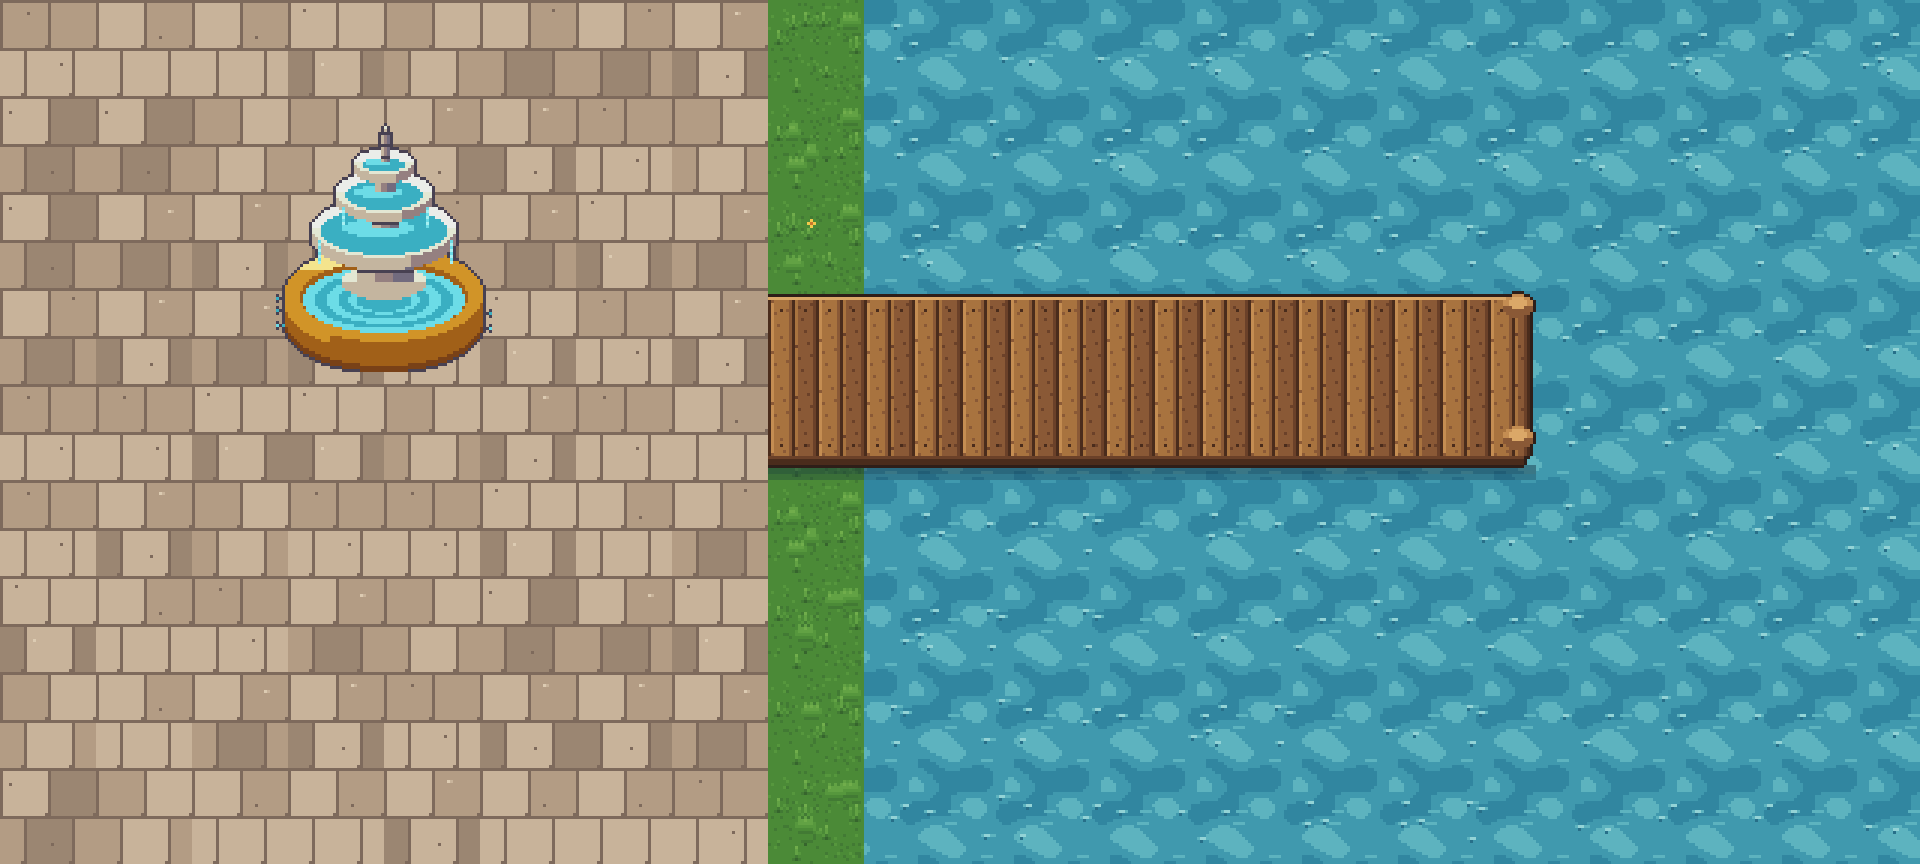
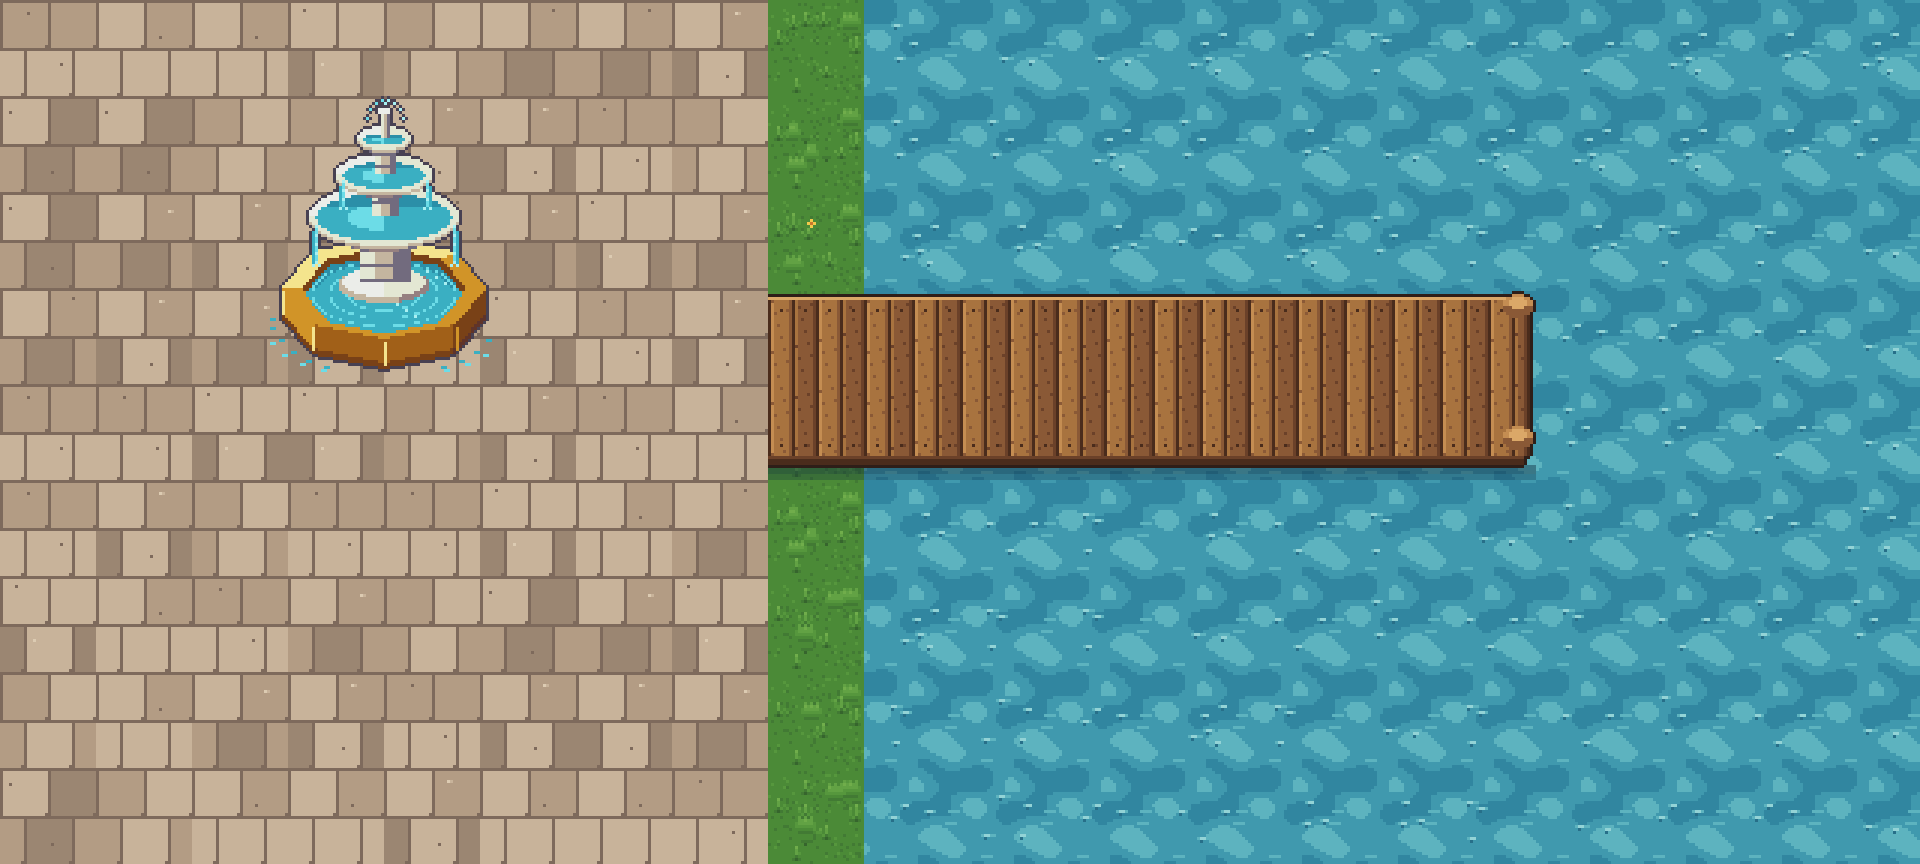
Fountain: octagonal gold basin, tapered bowls, layered water and spills
Claude-Session: https://claude.ai/code/session_01UfpJh2yGrDMaNfv5mQuco1

Changed region(s): [[0.125, 0.0938, 0.2812, 0.4375]]

diff --git a/tools/pixel-art/fountain_pier.py b/tools/pixel-art/fountain_pier.py
@@ -1,6 +1,6 @@
 """Çeşme ve iskele (kodla piksel piksel, 3/4 açı). docs/tasarim/15-gorsel-stil.md
 Çalıştır: python3 tools/pixel-art/fountain_pier.py -> client/Assets/Art/Custom/Plaza/
-Çeşme: fountain.png (72x100, pivot altta orta). İskele: pier_mid.png, pier_end.png (32x64 parçalar, 2 tile geniş).
+Çeşme: fountain.png (76x104, pivot altta orta). İskele: pier_mid.png, pier_end.png (32x64 parçalar, 2 tile geniş).
 """
 import math, os, random
 from PIL import Image
@@ -43,54 +43,117 @@ WHITE = [hx(c) for c in ('#484152', '#726b7e', '#958080', '#c4b59f', '#e3e7d3', 
 AQUA = [hx(c) for c in ('#2b8fa8', '#3aafc2', '#6cdce7', '#a8f0f2')]
 
 def fountain():
-    """Üç katlı çeşme: altın kenarlı havuz, gri ayak, beyaz kaseler, turkuaz su. Kendi çizimimiz (LPC'nin 'Fountain A' kompozisyonunu örnek alır)."""
-    W, H = 72, 100; c = Canvas(W, H); cx = 36
-    # dış halkalar (suyun havuzdan taşan dalgası)
-    for ang in range(0, 360, 7):
-        for rr, ch in ((37, 1), (40, 2)):
-            x = int(cx + rr * math.cos(math.radians(ang))); y = int(76 + (rr * .5) * math.sin(math.radians(ang)))
-            if math.sin(math.radians(ang)) > -0.1 and (ang // 7) % 2 == 0: c.put(x, y, AQUA[ch])
-    # havuz: altın duvar + üst kenar + turkuaz su
-    cy, rx, ry, wall = 74, 33, 16, 10
+    """Üç katlı çeşme, sekizgen altın havuz. Kendi çizimimiz; LPC 'Fountain A' kompozisyonunu örnek alır.
+    Işık sol üstten: sol yüzler açık, sağ yüzler koyu. Arkadan öne çizilir."""
+    W, H = 76, 104; c = Canvas(W, H); cx = 38
+    cy, rx, ry, wall = 76, 34, 17, 10           # havuz üst kenarının merkezi ve yarıçapları
+
+    # --- sekizgen yardımcıları (köşeler: ön, arka, sağ, sol ve çaprazlar) ---
+    def octa(scale, dy=0):
+        return [(cx + rx * scale * math.cos(math.radians(a)), cy + dy + ry * scale * math.sin(math.radians(a))) for a in range(0, 360, 45)]
+    def inside(px, py, poly):
+        n = len(poly); sgn = 0
+        for i in range(n):
+            x1, y1 = poly[i]; x2, y2 = poly[(i + 1) % n]
+            cr = (x2 - x1) * (py - y1) - (y2 - y1) * (px - x1)
+            if cr != 0:
+                if sgn == 0: sgn = 1 if cr > 0 else -1
+                elif (cr > 0) != (sgn > 0): return False
+        return True
+    def fill(poly, fn):
+        xs = [p[0] for p in poly]; ys = [p[1] for p in poly]
+        for y in range(int(min(ys)) - 1, int(max(ys)) + 2):
+            for x in range(int(min(xs)) - 1, int(max(xs)) + 2):
+                if inside(x + .5, y + .5, poly): c.put(x, y, fn(x, y))
+    def face(x, y, dy=0):
+        """Pikselin hangi duvar yüzüne düştüğü: açıya göre 0..7 (0 = sağ, 2 = ön, 4 = sol)."""
+        a = math.degrees(math.atan2((y + .5 - cy - dy) / ry, (x + .5 - cx) / rx)) % 360
+        return int(a // 45)
+
+    # --- havuz dış duvarı: yüz yüz gölgeli, ön köşelerde parlak kenar ---
+    WALL_SHADE = {0: GOLD[1], 1: GOLD[2], 2: GOLD[2], 3: GOLD[3], 4: GOLD[3], 5: GOLD[3], 6: GOLD[2], 7: GOLD[1]}
     for off in range(wall, 0, -1):
-        c.ellipse(cx, cy + off, rx, ry, lambda x, y, off=off: GOLD[1] if off > wall - 2 else GOLD[2] if (x - cx) > -rx * .55 else GOLD[3] if off < 4 else GOLD[2])
-    c.ellipse(cx, cy, rx, ry, lambda x, y: GOLD[4] if y < cy - ry * .55 and x < cx else GOLD[3])
-    c.ellipse(cx, cy + 1, rx - 5, ry - 4, lambda x, y: GOLD[2])                        # iç duvar
+        def wfn(x, y, off=off):
+            col = WALL_SHADE[face(x, y, off)]
+            if off >= wall - 1: col = GOLD[0] if col == GOLD[1] else GOLD[1]      # alt kenar gölgesi
+            return col
+        fill(octa(1, off), wfn)
+    for a in (45, 90, 135, 180):                                                     # ön köşe kenarları
+        x = int(round(cx + rx * math.cos(math.radians(a)))); y0 = int(round(cy + ry * math.sin(math.radians(a))))
+        for k in range(1, wall - 1): c.put(x, y0 + k, GOLD[4] if a >= 90 else GOLD[3])
+
+    # --- üst kenar (taç): dış sekizgen açık, iç sekizgen içte ---
+    fill(octa(1), lambda x, y: GOLD[4] if (face(x, y) in (4, 5, 6)) else GOLD[3])
+    fill(octa(0.80), lambda x, y: GOLD[1])                                           # iç duvar (arka tarafı görünür)
+    # --- havuz suyu ---
     def pool(x, y):
-        d = math.hypot((x + .5 - cx) / (rx - 6), (y + .5 - (cy + 2)) / (ry - 5))
-        if (int(d * 7) % 2 == 0 and d > .35): return AQUA[2]
-        return AQUA[1]
-    c.ellipse(cx, cy + 2, rx - 6, ry - 5, pool)
-    # ayak ve taban
-    def tier(tcx, tcy, trx, try_, wallh):
-        for off in range(wallh, 0, -1):
-            c.ellipse(tcx, tcy + off, trx, try_, lambda x, y, off=off: WHITE[2] if (x - tcx) > trx * .35 else WHITE[3])
-        c.ellipse(tcx, tcy, trx, try_, lambda x, y: WHITE[5] if y < tcy else WHITE[4])
-        c.ellipse(tcx, tcy + 1, trx - 3, try_ - 2, lambda x, y: AQUA[1])
-        c.ellipse(tcx - 2, tcy, max(2, trx // 2), max(1, try_ // 3), lambda x, y: AQUA[2])
-    def column(tcx, y0, y1, w):
+        d = math.hypot((x + .5 - cx) / (rx * .78), (y + .5 - (cy + 2)) / (ry * .70))
+        col = AQUA[1]
+        if d > .86 and y < cy: col = AQUA[0]                                        # arka iç kenarın gölgesi
+        ring = d * 4.5
+        if .4 < d < .95 and (ring - int(ring)) < .14: col = AQUA[2]                # dalga halkaları
+        if (x * 13 + y * 7) % 53 == 0 and d < .85: col = AQUA[3]                     # parıltı
+        return col
+    fill(octa(0.78, 2), pool)
+
+    # --- yardımcılar: kase (kesik koni) ve sütun ---
+    def bowl(tcx, tcy, trx, try_, depth):
+        for k in range(depth, 0, -1):                                               # alt yüz: aşağı doğru daralır
+            f = 1 - 0.45 * k / depth
+            c.ellipse(tcx, tcy + k, trx * f, try_ * f, lambda x, y, k=k: WHITE[1] if (x - tcx) > trx * f * .25 or k > depth - 2 else WHITE[2])
+        c.ellipse(tcx, tcy + 1, trx, try_, lambda x, y: WHITE[3])                   # dudak (ön kalınlık)
+        c.ellipse(tcx, tcy, trx, try_, lambda x, y: WHITE[5] if (x - tcx) < 0 and y < tcy else WHITE[4])
+        def w(x, y):
+            d = math.hypot((x + .5 - tcx) / (trx - 2.5), (y + .5 - tcy - .5) / (try_ - 2))
+            if y < tcy - (try_ - 2) * .45: return AQUA[0]
+            if d < .55 and x < tcx: return AQUA[2]
+            return AQUA[1]
+        c.ellipse(tcx, tcy + .5, trx - 2.5, try_ - 2, w)
+    def column(tcx, y0, y1, w, rings=True):
         for y in range(y0, y1):
             for x in range(tcx - w, tcx + w + 1):
-                t = (x - tcx) / w; c.put(x, y, WHITE[1] if t > .3 else WHITE[3] if t < -.4 else WHITE[2])
-            if (y - y0) % 4 == 0:
-                for x in range(tcx - w, tcx + w + 1): c.put(x, y, WHITE[0])
-    c.ellipse(cx, cy - 4, 14, 6, lambda x, y: WHITE[4] if y < cy - 4 else WHITE[3])        # taban halkası
-    column(cx, cy - 20, cy - 4, 9)
-    tier(cx, cy - 22, 24, 10, 4)                                                              # 1. kase
-    column(cx, cy - 32, cy - 22, 4)
-    tier(cx, cy - 34, 16, 7, 3)                                                               # 2. kase
-    column(cx, cy - 42, cy - 34, 3)
-    tier(cx, cy - 44, 10, 4, 3)                                                               # 3. kase
-    column(cx, cy - 54, cy - 44, 1)
-    c.put(cx, cy - 56, WHITE[4]); c.put(cx, cy - 55, WHITE[3])
-    # kaselerden süzülen su
-    for (xx, y0, n) in ((cx - 22, cy - 18, 8), (cx + 22, cy - 18, 8), (cx - 14, cy - 29, 7), (cx + 14, cy - 29, 7)):
-        for k in range(n): c.put(xx, y0 + k, AQUA[3] if k % 2 else AQUA[2])
+                t = (x - tcx) / max(1, w)
+                c.put(x, y, WHITE[4] if t < -.45 else WHITE[1] if t > .35 else WHITE[3])
+            if rings and (y - y0) % 5 == 2:
+                for x in range(tcx - w, tcx + w + 1): c.put(x, y, WHITE[1])
+    def curtain(x, y0, n):
+        for k in range(n):
+            c.put(x, y0 + k, AQUA[3] if k % 3 == 0 else AQUA[2])
+            if k > 1: c.put(x + (1 if x > cx else -1), y0 + k, AQUA[1])
+        c.put(x - 1, y0 + n, AQUA[3]); c.put(x + 1, y0 + n, AQUA[3])               # sıçrama
+
+    # --- ayak (havuzun içinden yükselir) ---
+    c.ellipse(cx, cy - 1, 15, 6, lambda x, y: WHITE[2] if x > cx + 4 else WHITE[3])
+    c.ellipse(cx, cy - 2, 14, 5, lambda x, y: WHITE[5] if x < cx else WHITE[4])
+    column(cx, cy - 20, cy - 2, 8)
+    c.ellipse(cx, cy - 20, 9, 3, lambda x, y: WHITE[4])
+    # --- 1. kase ---
+    bowl(cx, cy - 24, 25, 10, 7)
+    curtain(cx - 23, cy - 21, 13); curtain(cx + 23, cy - 21, 13)
+    # --- 2. kase ---
+    column(cx, cy - 36, cy - 24, 4)
+    bowl(cx, cy - 38, 16, 6.5, 5)
+    curtain(cx - 14, cy - 36, 9); curtain(cx + 14, cy - 36, 9)
+    # --- 3. kase ---
+    column(cx, cy - 48, cy - 38, 3)
+    bowl(cx, cy - 50, 9, 4, 4)
+    # --- uç ve fışkıran su ---
+    column(cx, cy - 58, cy - 50, 1, rings=False)
+    c.ellipse(cx, cy - 59, 2, 1.5, lambda x, y: WHITE[5])
+    for k, (dx, dy) in enumerate(((0, -62), (-1, -63), (1, -63), (-3, -62), (3, -62), (-5, -60), (5, -60), (-6, -57), (6, -57))):
+        c.put(cx + dx, cy + dy, AQUA[3] if k % 2 == 0 else AQUA[2])
+
     c.outline()
-    # dış çizgi rengini çeşmeye uyarla
-    for y in range(H):
+    for y in range(H):                                                              # kontur rengi: koyu mor
         for x in range(W):
             if c.px[x, y] == OUTLINE: c.px[x, y] = OUT_C
+    # --- yerdeki ıslaklık ve dalga halkaları ---
+    for ang in range(0, 181, 6):
+        for rr, col in ((1.12, AQUA[1]), (1.22, AQUA[2])):
+            if (ang // 6) % 2: continue
+            x = int(cx + rx * rr * math.cos(math.radians(ang))); y = int(cy + wall + ry * rr * math.sin(math.radians(ang)))
+            if 0 <= x < W - 1 and 0 <= y < H and c.px[x, y][3] == 0 and c.px[x + 1, y][3] == 0: c.put(x, y, col); c.put(x + 1, y, col)
+
     return c.im
 
 def pier_plank_rows(c, y0, y1, seed):
@@ -155,7 +218,7 @@ if __name__ == '__main__':
             elif tx < 9: t = g.GRASS[r.randrange(8)]
             else: t = g.WATER_T[r.randrange(8)]
             sc.paste(t, (tx * T, ty * T))
-    sc.alpha_composite(f, (3 * T - 4, 1 * T - 8))
+    sc.alpha_composite(f, (3 * T - 6, 1 * T - 12))
     for i in range(7): sc.alpha_composite(pm, ((8 + i) * T, 3 * T))
     sc.alpha_composite(pe, (15 * T, 3 * T))
     sc.resize((sc.width * 3, sc.height * 3), Image.NEAREST).save(os.path.join(OUT, 'onizleme.png'))
